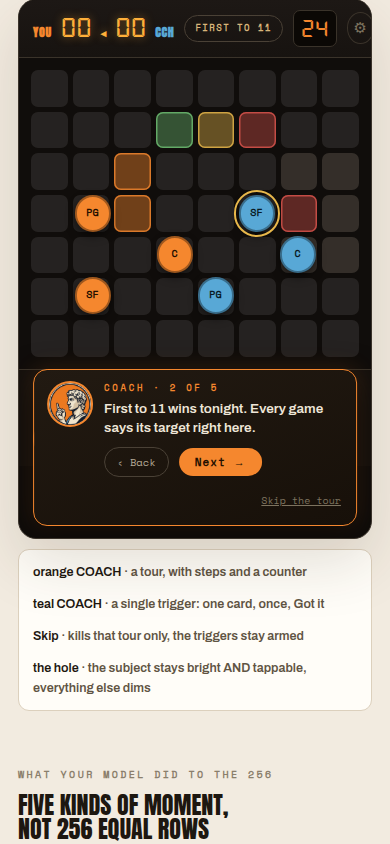
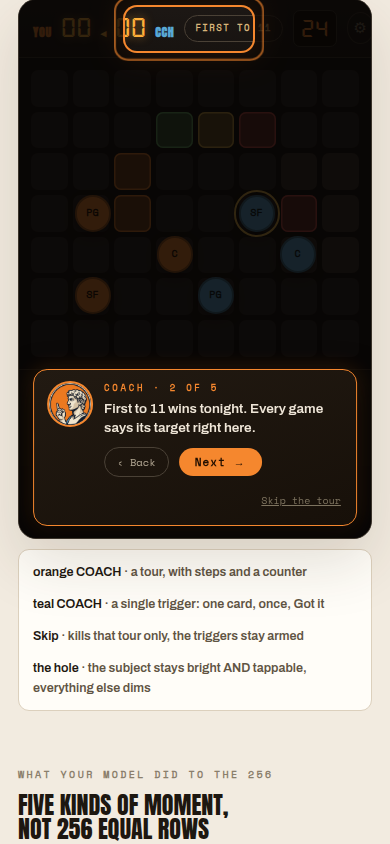
Aaron's first walkthrough catches: two rules errors fixed, the tic gated
Three corrections to the Coach's tour scripts, caught by Aaron on the mock
screen within minutes of publishing:

- T2 step 3 taught a rule that does not exist. "Every player gets one free
  sidestep" is false; checked against game.js, a live possession is ONE
  action a turn and the only free extra move is the inbound cutter. The
  step now teaches the shipped rule (and how it makes screens). Found doc
  drift while checking: DESIGN.md § 3 still promises the per-turn shuffle;
  filed as item 5 for Aaron to rule.
- FIRST CARD step 2 said "harder pays more", which is false and which this
  same file already knew (CM-GAME-13: cream line is WORTH, colour is HARD).
  Points come from the floor, 3 behind the cream line and 2 inside; the
  badge colour never changes what a bucket pays. The mock card badge now
  reads EASY · TOSS-UP instead of the impossible EASY · 2 PTS.
- "That's the whole war/game/deal" is banned from all messaging. Swept from
  the scripts, the doc, and the one shipped line in coach.js plus four
  comments; audit.py now gates ai_tics at 0 (regex takes straight and curly
  apostrophes, the live hit was curly). Law recorded in CLAUDE.md.

Corrections and the DESIGN.md drift recorded in COACH-TOURS-2026-08-10.md.
Artifact rebuilt and republished at Aaron's original URL.

Claude-Session: https://claude.ai/code/session_01Y29K1DtgAMPnfoUHMesWe3

Changed region(s): [[0.0615, 0.0, 0.9538, 0.5545]]

diff --git a/docs/play/daily.js b/docs/play/daily.js
@@ -156,7 +156,7 @@ function gateOk(q){
    a rule that is 78% true is not a rule.
 
    Dropping 'any' costs 165 cards and buys a guarantee that needs no judgement
-   to check: the daily serves cards tagged nba or wnba, and that is the whole
+   to check: the daily serves cards tagged nba or wnba, and that is the entire
    test. Pools stay healthy, measured 08-04, NBA+WNBA alone gives
    t1 163 · t2 271 · t3 209 · t4 132, against a need of at most 4 from one tier
    per day. Put 'any' back in one line once RESEARCH-BACKLOG V19 has re-tagged
@@ -464,8 +464,8 @@ function markFor(rec){
 
 /* The streak is consecutive days ending today (or yesterday, so a day you have
    not played yet does not read as a broken streak before you have had a chance).
-   A day you go back and make up REPAIRS the streak, that is the whole point of
-   letting missed days be playable, and it is why this counts history rather
+   A day you go back and make up REPAIRS the streak, that is what makes missed
+   days worth keeping playable, and it is why this counts history rather
    than tracking a running number that can only ever go down. */
 function streakFrom(h,today){
   var d=new Date(today+'T00:00:00'),n=0;
@@ -758,7 +758,7 @@ function showCard(){
    Aaron, 2026-08-07: *"Do we have quick sounds too? Like for right or wrong?
    Maybe a swish and a bad buzzer or something... do I need to source those?"*
 
-   No, and that is the whole finding. This file had ZERO BKAudio calls -- not
+   No, and that is the finding. This file had ZERO BKAudio calls -- not
    the wrong sounds, none at all -- while audio.js has SYNTHESISED every one of
    them since day one, in code, with no files to source: `net` is an arpeggio
    that reads as a swish, `brick` is a noise hit, `buzzer` is the falling sweep

diff --git a/docs/play/coach.js b/docs/play/coach.js
@@ -350,7 +350,7 @@ var DRILLS={
      done:function(){return !veil('qveil')}},
     {say:'The <b>release meter</b>: pure bonus. Dead center <b>DENIES the block card</b>. Anywhere else, Coach gets his say with a card. It can NOT shank your shot. Tap!',
      done:function(){return !veil('meterveil')&&(S().score[0]>0||veil('qveil')||S().phase==='off-select'||!!(K().battle&&K().battle()))}},
-    {say:'That’s the whole deal: your right answer earned the look, and only a right answer can take it away. Perfect touch just silences the block. Dismissed. 🎓',done:function(){return true}}]},
+    {say:'Your right answer earned the look, and only a right answer can take it away. Perfect touch just silences the block. Dismissed. 🎓',done:function(){return true}}]},
   cross:{nm:'The crossover duel',allow:['move'],steps:[
     {say:'A defender is parked in your path, tiles PAST him glow <b>red</b>. <b>Tap your ball-handler.</b>',
      done:function(){return S().selected===S().ball.holder}},

diff --git a/docs/play/index.html b/docs/play/index.html
@@ -1111,7 +1111,7 @@
      writes 168deg. One wrong number, one grep, one answer.
      Two-letter prefixes collide. If a third menu ever needs one, grep first. */
   #screen-title2{background:transparent}
-  /* NO `display` HERE, AND THAT IS THE WHOLE POINT.
+  /* NO `display` HERE, AND THAT IS DELIBERATE.
      The first cut wrote `.nm{display:flex;...}`. Same specificity as `.screen`
      (one class each) and later in the file, so it beat `.screen{display:none}`
      and the new menu was ALWAYS on screen, sitting invisibly on top of the

diff --git a/tools/coachtour-artifact.py b/tools/coachtour-artifact.py
@@ -41,9 +41,9 @@ SPOT = {
     "THE COACH'S OWN CARD": '__self__',
     'YOUR BALL-HANDLER': '#pg',
     'THE LIT TILES': '#lit',
-    'THE WHOLE SQUAD': '#squad',
+    'YOUR OTHER FOUR': '#squad',
     'THE CONFIRM BUTTON': '#bconfirm',
-    'THE WHOLE BOARD': '#grid',
+    'THE FULL FLOOR': '#grid',
     'ONE OF YOUR DEFENDERS': '#dpg',
     'THE RINGS AT THEIR FEET': '#opp',
     'THE :12': '#clock',
@@ -85,8 +85,8 @@ def main(out):
                          [{'sel': s['sel'], 'say': s['say']} for s in t['steps']]})
     chapters.insert(1, {'id': 'card', 'label': 'FIRST CARD · triggered tour',
         'scene': 'card', 'kind': 'tour', 'steps': [
-        {'sel': '#qcard', 'say': 'Your first card. <b>Answer to play</b>: that is the whole game. Right answer, the move happens. Wrong, you pay for it.'},
-        {'sel': '#tier', 'say': 'The badge says how hard, and <b>harder pays more</b>. Green easy, amber medium, red hard: same colours as the floor.'},
+        {'sel': '#qcard', 'say': 'Your first card. <b>Answer to play.</b> Right answer, the move happens. Wrong, you pay for it.'},
+        {'sel': '#tier', 'say': 'The badge: <b>colour says how hard</b>, green easy, amber medium, red hard, and the words say the stake. This card plays for the ball. Points never come from the colour, they come from the floor: <b>3 behind the cream line, 2 inside</b>.'},
         {'sel': '#q15', 'say': 'Fifteen seconds, and <b>it burns while you read</b>. It is holding still right now because I am talking. It will not for the next one.'}]})
     chapters.append({'id': 'pause', 'label': 'PAUSE MENU · triggered tour',
         'scene': 'pause', 'kind': 'tour', 'steps': [
@@ -358,7 +358,7 @@ PAGE = """<title>The Coach's Tours · example</title>
       <button class="act">SHOOT</button><button class="act" id="bconfirm">CONFIRM ✓</button>
     </div>
     <div id="cardveil"><div id="qcard">
-      <div class="qh"><span id="tier">EASY · 2 PTS</span><span id="q15">15</span></div>
+      <div class="qh"><span id="tier">EASY · TOSS-UP</span><span id="q15">15</span></div>
       <div class="qt">TOSS-UP · Which line on the court is worth three points from behind it?</div>
       <button class="qa">The cream arc</button><button class="qa">The halfway line</button>
       <button class="qa">The baseline</button><button class="qa">The key</button>

diff --git a/tools/audit.py b/tools/audit.py
@@ -333,6 +333,31 @@ def measure():
     except Exception:
         m['em_dashes'] = 9999
 
+    # NO "THAT'S THE WHOLE X". Aaron, 08-10: "there is this thing you do when
+    # you speak, 'that's the whole', 'this is the whole thing', that phrasing
+    # is very AI and I want to take it out of all messaging."
+    # Same law-shape as em_dashes: counted over the same product files,
+    # comments included (the tic in a comment is the tic rehearsing), ratcheted
+    # at 0 from a clean sweep (5 found 08-10: one live coach line, four
+    # comments). The regex takes both apostrophes because the one live hit was
+    # curly ("That’s") and an ASCII-only grep sailed right past it.
+    try:
+        import re as _re
+        tic = _re.compile(r"(?i)\b(that['’]?s|that is|this is)\s+the\s+whole\b")
+        n = 0
+        for f in ('docs/play/game.js', 'docs/play/daily.js', 'docs/play/coach.js',
+                  'docs/play/install.js', 'docs/play/audio.js', 'docs/play/index.html',
+                  'docs/play/questions.js', 'docs/play/players.js',
+                  'server/index.js'):
+            n += len(tic.findall(open(os.path.join(ROOT, f), encoding='utf-8').read()))
+        tdir = os.path.join(ROOT, 'docs/play/data/tables')
+        for fn in sorted(os.listdir(tdir)):
+            if fn.endswith('.json') and fn != 'todo.json':
+                n += len(tic.findall(open(os.path.join(tdir, fn), encoding='utf-8').read()))
+        m['ai_tics'] = n
+    except Exception:
+        m['ai_tics'] = 9999
+
     # EVERY HTML PAGE NEEDS A HEAD THAT WORKS, INCLUDING THE THROWAWAY ONES.
     # Two lines, both found the same way and both missing from the same seven
     # files: a viewport meta and a charset. The charset half showed up in a
@@ -470,7 +495,7 @@ RATCHET = ['cards_unsourced','volatile_t1','cards_bad_choices','srcids_unresolve
            'players_no_pid','pid_collisions','ptags_unresolved',
            'players_mirror_drift',
            'tables_link_unresolved','tables_orphans','emit_drift',
-           'ui_gendered','em_dashes','verified_index_drift','notes_unsourced',
+           'ui_gendered','em_dashes','ai_tics','verified_index_drift','notes_unsourced',
            'stale_overdue','anchored_unreviewed','pages_no_viewport',
            'pages_no_charset']
 

diff --git a/design/COACH-TOURS-2026-08-10.md b/design/COACH-TOURS-2026-08-10.md
@@ -81,7 +81,7 @@ The subject in CAPS is what the spotlight cuts out of the dim.
 
 | # | spotlight on | the Coach says |
 |---|---|---|
-| 1 | THE SCOREBOARD | "Up top: your score, their score, and the clock. That's the whole war." |
+| 1 | THE SCOREBOARD | "Up top: your score, their score, and the clock. Keep one eye up here all night." |
 | 2 | THE TARGET | "First to 11 wins tonight. Every game says its target right here." |
 | 3 | YOUR SQUAD (the orange pieces) | "The orange five are yours. Guards cover ground, bigs own the paint." |
 | 4 | A GREEN TILE, AN AMBER TILE, A RED TILE | "One rule to remember: colour means HOW HARD THE QUESTION IS. Green easy, amber medium, red hard. Everywhere, always." |
@@ -93,7 +93,7 @@ The subject in CAPS is what the spotlight cuts out of the dim.
 |---|---|---|
 | 1 | YOUR BALL-HANDLER | "You've got the rock. Tap any of your five to pick them up." |
 | 2 | THE LIT TILES | "Orange tiles are free moves. RED tiles mean somebody's in the way, and beating him costs a question." |
-| 3 | THE WHOLE SQUAD | "Before your main move, every player gets one free sidestep. Use it: it's twice the offense for nothing." |
+| 3 | YOUR OTHER FOUR | "One action a turn: move ANY of your five, pass, or shoot. Moving a man without the ball never costs a question. That's how you set a screen." |
 | 4 | THE CONFIRM BUTTON | "Nothing happens until you hit Confirm. Stray thumbs never cost you a possession." |
 
 Then he goes quiet and the possession is theirs. The card that resolves their
@@ -104,7 +104,7 @@ matters.
 
 | # | spotlight on | the Coach says |
 |---|---|---|
-| 1 | THE WHOLE BOARD | (won the tip:) "They've got it, so now you play the other half." (lost the tip:) "Lost the tip? Then defense is your first job tonight. Most people never expect that." |
+| 1 | THE FULL FLOOR | (won the tip:) "They've got it, so now you play the other half." (lost the tip:) "Lost the tip? Then defense is your first job tonight. Most people never expect that." |
 | 2 | ONE OF YOUR DEFENDERS | "After each of their moves, you slide ONE defender. A step shorter than he'd run on offense." |
 | 3 | THE RINGS AT THEIR FEET | "Read the feet. A ring tells you what each defender can do right now: cut off, contest, or force the question." |
 | 4 | THE :12 | "Defense thinks fast: twelve seconds to slide. It pauses whenever a card is up." |
@@ -113,7 +113,7 @@ matters.
 
 | tour | fires when | steps |
 |---|---|---|
-| **FIRST CARD** | the first question card ever flips (the toss-up), clock held | 3: "Answer to play, that's the whole game" → the tier badge and points ("harder pays more") → the :15 ("it burns while you read") |
+| **FIRST CARD** | the first question card ever flips (the toss-up), clock held | 3: "Answer to play" (right answer, the move happens; wrong, you pay) → the tier badge ("colour says how hard, words say the stake; points come from the FLOOR when you shoot: 3 behind the cream line, 2 inside") → the :15 ("it burns while you read") |
 | **THE CALL** | you win the toss-up, choice on screen | 2: what you won → the two prizes, pick one |
 | **PAUSE MENU** | first open, clock already stopped | 3: "clock's stopped, nothing is lost" → what each button does → "the Rulebook is safe to open mid-game, your board keeps" |
 | **END SCREEN** | first game ends, win or lose (first line differs) | 3: (win:) "That's a win. The slam is yours." / (loss:) "They got you tonight. Every legend has an 0-1." → what the numbers meant → what's next: rematch, the Daily Five, the Gym |
@@ -407,6 +407,32 @@ list's seventy-seven MUSTs.
   rows, the camera row and the card-anatomy rows were your tours, unnamed.
   They are now literally T1 and the FIRST CARD tour.
 
+## Corrections from Aaron's first walkthrough (08-10, same day)
+
+He caught two rules errors in the scripts and a voice tic. All three fixed
+in place above; recorded here because the errors were instructive:
+
+- **"Every player gets one free sidestep" was FALSE.** Checked against
+  `game.js` (not memory): on a live possession you get ONE action a turn,
+  moving anyone, and the ball-handler is never free, his drives into
+  coverage cost a crossover card. Off-ball moves cost no QUESTION but do
+  spend the turn. The only genuinely free extra move is the INBOUND cutter:
+  one teammate, never the inbounder, once, answered by a defensive slide.
+  T2 step 3 now teaches the shipped rule. **Doc drift found while checking,
+  for Aaron to rule (item 5 below):** DESIGN.md § 3 still says "one free
+  off-ball shuffle (1 square) + one main action" per offensive turn, which
+  is NOT what shipped.
+- **"Harder pays more" was FALSE**, and worse, this file already knew it:
+  CM-GAME-13's own note says "cream line is WORTH, colour is HARD".
+  `game.js` (§ the two-question split): POINTS come from the LINE (3 behind
+  the cream arc and its corners, 2 inside), TIER comes from the SHOT. The
+  badge's colour never changes what a bucket pays. FIRST CARD step 2 now
+  says so.
+- **"That's the whole war / whole game / whole deal"** is an AI voice tic
+  Aaron has banned from all messaging. Swept from these scripts, from the
+  shipped drill line in `coach.js`, and gated at 0 by `ai_tics` in
+  `tools/audit.py` so it cannot creep back.
+
 ## Open for Aaron to rule
 
 1. **The model itself** and the filing above (overrule any row by id).
@@ -415,3 +441,8 @@ list's seventy-seven MUSTs.
    on for triggers. A returning player can kill everything with Coach off.
 4. **The pass-the-phone curtain** for Local VS surfaced here as a real build
    item (it is UI, not coaching); it needs a home on a track if wanted.
+5. **DESIGN.md § 3 vs the shipped turn** (found 08-10, above): the doc
+   promises a per-turn free off-ball shuffle; the game ships the inbound
+   cutter + one action per turn. Either the shuffle is still wanted (a build
+   item) or § 3 gets rewritten to the shipped rule. The Coach teaches the
+   shipped rule either way.

diff --git a/CLAUDE.md b/CLAUDE.md
@@ -308,6 +308,28 @@ extended it to the whole product, so it is not a style note any more, it is law:
 - The `.md` docs in the repo root are **not** covered yet. That is a decision
   Aaron has not made, not an oversight.
 
+## NO "THAT'S THE WHOLE X" (Aaron, 2026-08-10 — the AI voice tic)
+
+> *"there is this thing you do when you speak, 'that's the whole', 'this is
+> the whole thing', that phrasing is very AI and I want to take it out of all
+> messaging."*
+
+The tic is the summarizing flourish: "that's the whole game", "that's the
+whole deal", "this is the whole thing". Say the thing instead; a sentence that
+needs a flourish to feel finished wasn't finished.
+
+- **`python3 tools/audit.py` gates `ai_tics` at 0** over the same product
+  files as `em_dashes` (comments included), swept clean 08-10: five removed,
+  one live coach line and four comments. Regex covers straight AND curly
+  apostrophes, because the one player-facing hit was curly and an ASCII grep
+  missed it.
+- Applies to everything written for Aaron or players: game copy, coach
+  scripts, artifacts, chat replies, commit messages. The gate only sees the
+  product files; the rest is on the writer, which is why it is recorded here.
+- Same family, so watch for it: "the whole board/gym" as NAMES is fine
+  (Aaron has not ruled on those); the banned thing is the tic that closes a
+  sentence by declaring it complete.
+
 ## House rules
 - No CDNs. Everything self-hosted in this repo.
 - Renderer and game rules stay separate (DESIGN.md §9) — the look can evolve
